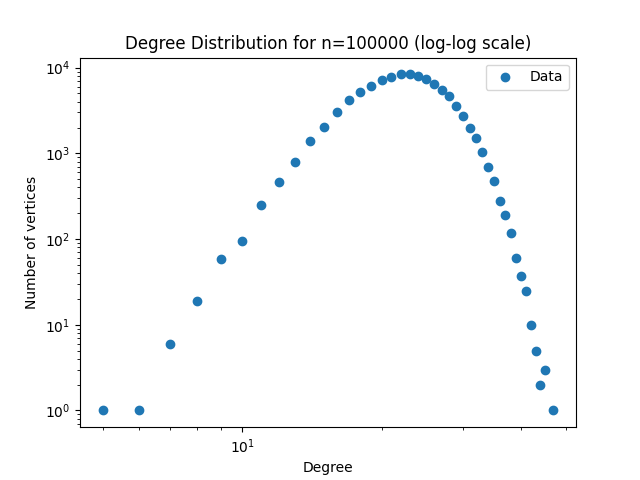
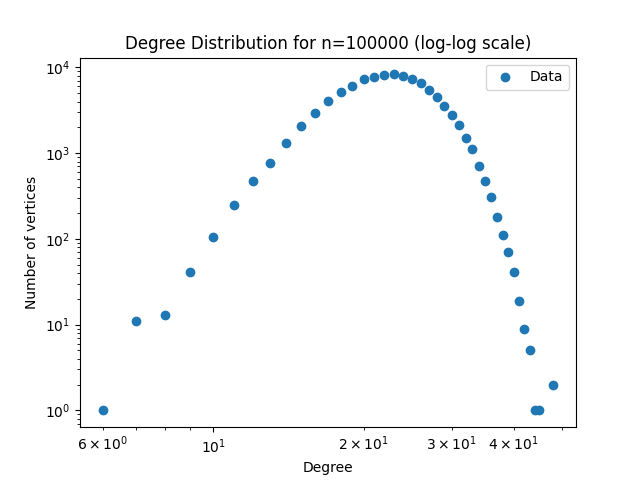
re did plots

diff --git a/main.py b/main.py
@@ -15,7 +15,7 @@ def test_graph_algorithms(graph):
     return clustering_coefficient, degree_distribution, diameter
 
 def experiment_and_collect_data():
-    sizes = np.logspace(3, 5, num=10, dtype=int)
+    sizes = np.logspace(1, 6, num=20, dtype=int)
     specific_sizes = np.array([1000, 10000, 100000])
     sizes = list(np.unique(np.concatenate((sizes, specific_sizes))))
     diameters = []
@@ -77,6 +77,10 @@ def plot_results(sizes, diameters, clustering_coefficients, degree_distributions
     for i, degree_distribution in enumerate(degree_distributions):
         degrees = np.array(list(degree_distribution.keys()))
         counts = np.array(list(degree_distribution.values()))
+        if sizes[i] == 1000 or sizes[i] == 10000 or sizes[i] == 100000:
+            pass
+        else:
+            continue
 
         # Linear scale degree distribution
         plt.figure()
